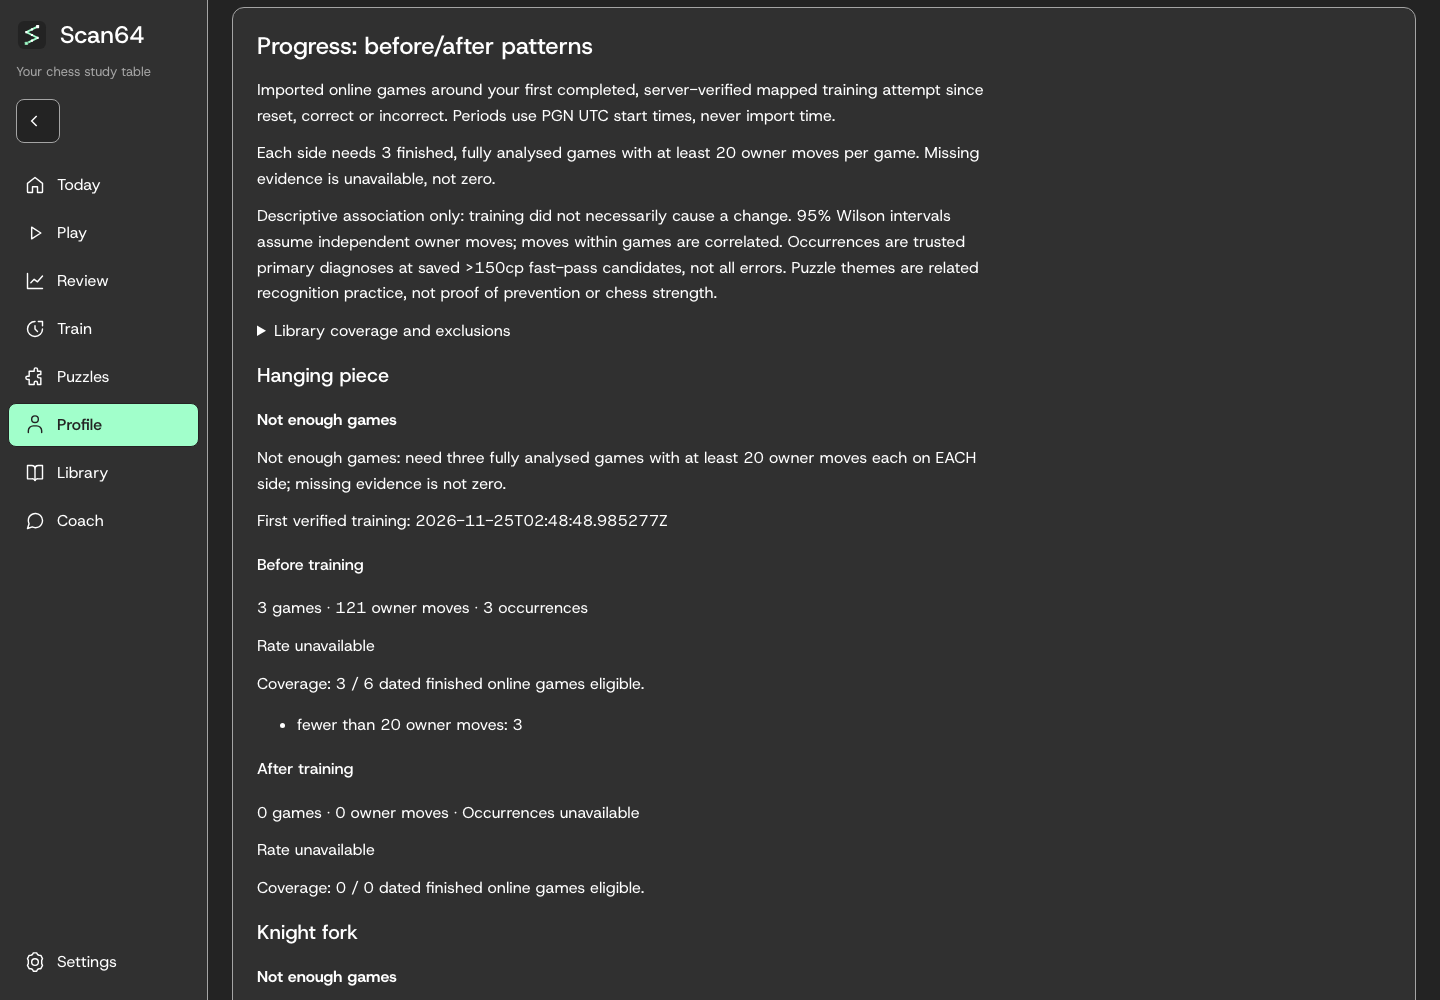
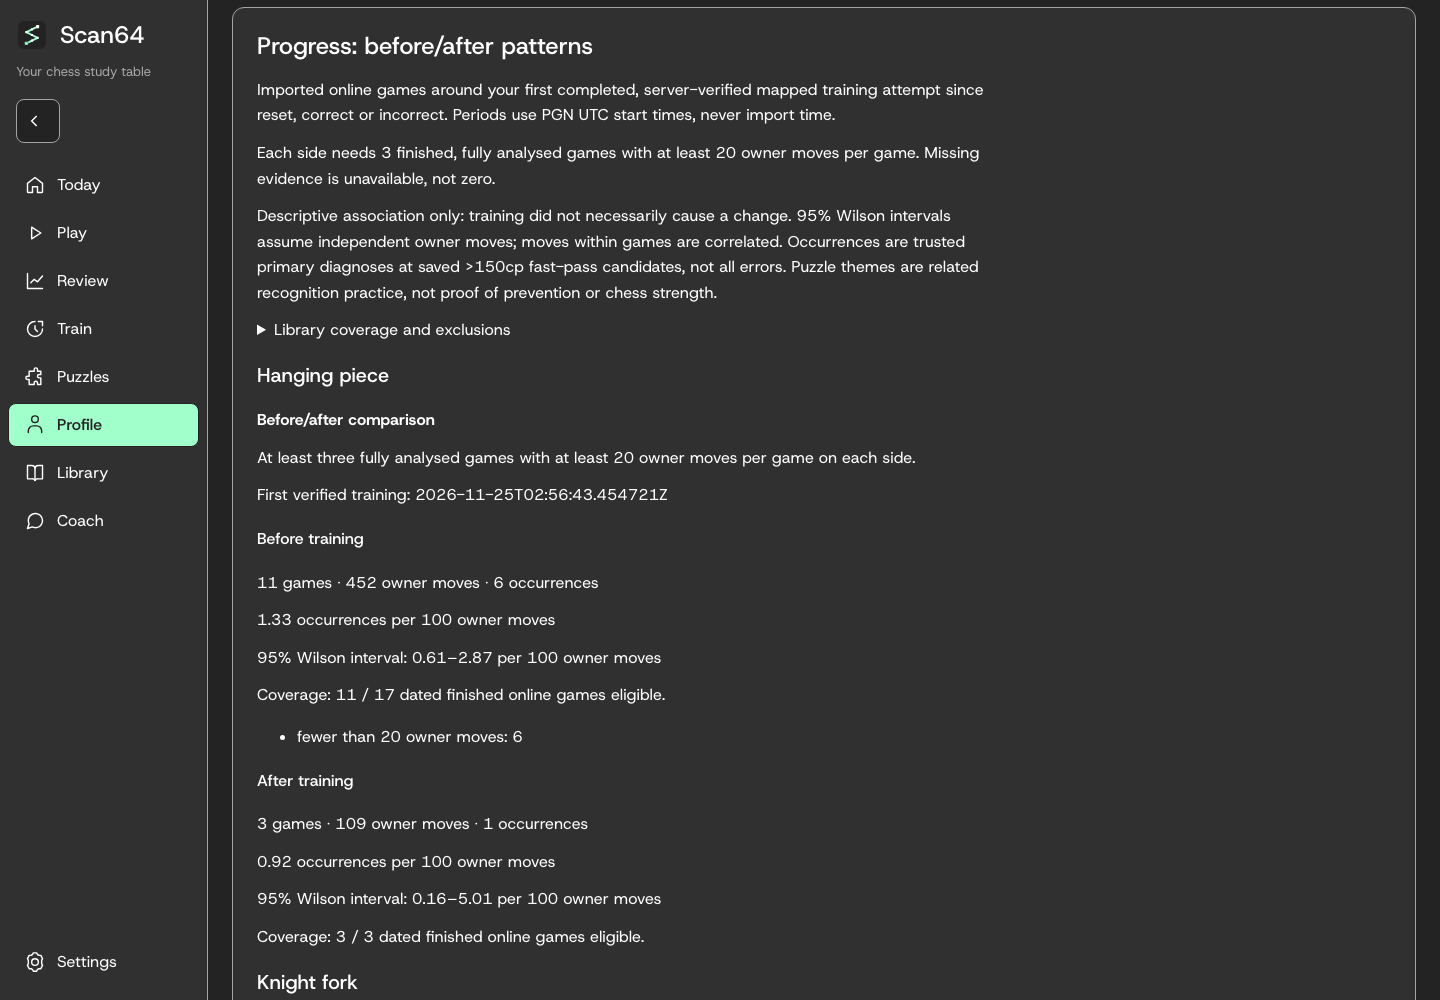
docs(readme): show genuine before-after pattern comparison
- Recapture recurrence after verified training and three genuinely later public games, preserving both samples, Wilson intervals and the non-causal caveat.
- Match the screenshot alt text and caption to the observed before/after rates.

diff --git a/README.md b/README.md
@@ -66,11 +66,11 @@ Solve multi-move puzzles from the free Lichess puzzle database. Scan64 keeps a s
   </tr>
   <tr>
     <td><a href="assets/screenshot-profile.png"><img src="assets/screenshot-profile.png" alt="Profile game insights with scored move counts by phase, colour and opening, plus clock-pressure coverage"></a></td>
-    <td><a href="assets/screenshot-patterns.png"><img src="assets/screenshot-patterns.png" alt="Profile before/after hanging-piece recurrence: three qualifying games before training, none after, rates unavailable and the non-causal caveat"></a></td>
+    <td><a href="assets/screenshot-patterns.png"><img src="assets/screenshot-patterns.png" alt="Profile hanging-piece recurrence: 11 games and 452 owner moves before training versus 3 games and 109 moves after; 1.33 versus 0.92 occurrences per 100 moves, with 95% Wilson intervals and the non-causal caveat"></a></td>
   </tr>
   <tr>
     <td align="center"><b>Insights</b>: read scores with coverage</td>
-    <td align="center"><b>Progress</b>: sample sizes, not promises</td>
+    <td align="center"><b>Progress</b>: before/after rates with uncertainty</td>
   </tr>
 </table>
 
